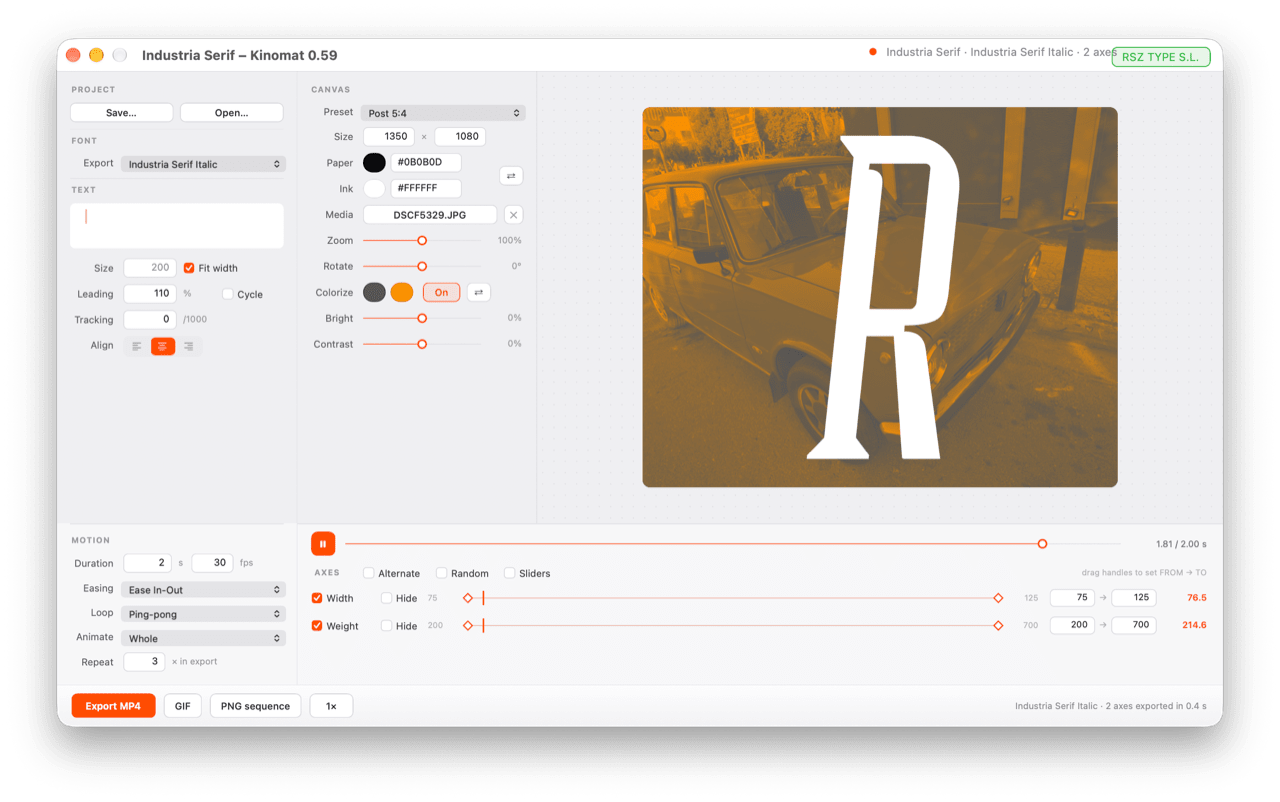
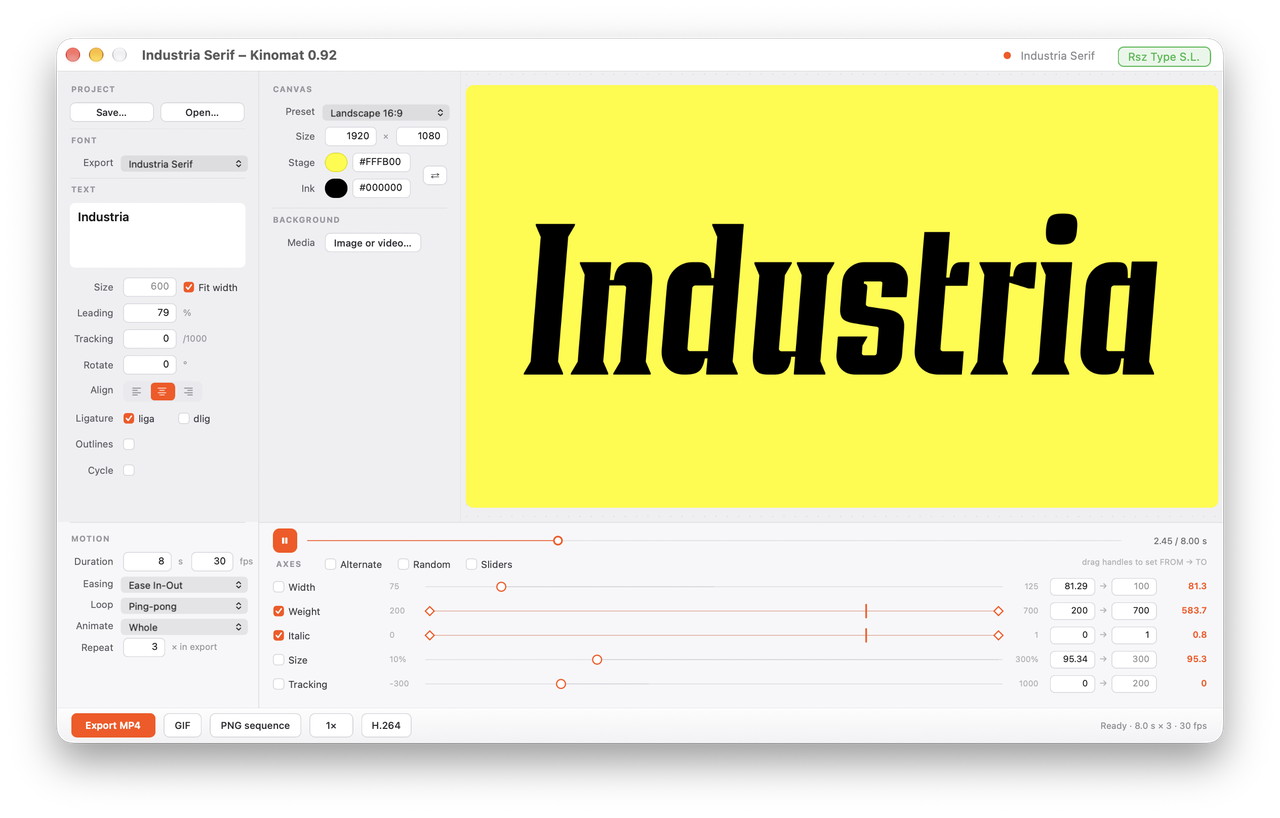
Kinomat 0.92: Cycle in its own row, Outlines, Rotate, narrower panels, shorter bars; Cycle leaves out glyphs that cannot compile; new screenshot

diff --git a/Kinomat/Kinomat.glyphsPlugin/Contents/Resources/plugin.py b/Kinomat/Kinomat.glyphsPlugin/Contents/Resources/plugin.py
@@ -1901,6 +1901,27 @@ def exportFont(font, master=None, needed=None, setting=None):
     if not path:
         path, error = _generate(font, folder, master, None, setting)
 
+    if not path and error:
+        # glyphs whose curves cannot be made compatible TrueType stop the whole
+        # font from going out: leave those out, and say so, rather than show
+        # nothing at all. The error names them, a few at a time.
+        import re
+        left = set()
+        for attempt in range(8):
+            found = re.search(r"not compatible:\s*(.*?)\s*Can.t convert",
+                              error or "", re.S)
+            if not found:
+                break
+            left |= set(n.strip() for n in found.group(1).split(",") if n.strip())
+            names = frozenset(g.name for g in font.glyphs if g.name not in left)
+            clearFolder(folder)
+            path, error = _generate(font, folder, master, names, setting)
+            if path:
+                kept = names
+                print("Kinomat \u2014 left out, they cannot be made compatible "
+                      "TrueType: %s" % ", ".join(sorted(left)))
+                break
+
     if not path:
         if master is not None:
             raise Exception("Font export failed.\n%s"
@@ -1983,7 +2004,7 @@ UI_ACCENT = ACCENT
 # Air has: the export bar fell off the bottom of the screen. The settings are
 # in two columns now, so the panel is as wide as a film and never taller than
 # the screen it opens on.
-COL_W = 296                          # one column of settings
+COL_W = 249                          # one column of settings
 SIDE_W = COL_W * 2                   # the two of them, side by side
 GUTTER = 16                          # a column's own padding
 LABEL_W = 56                         # the right-aligned label column
@@ -1992,18 +2013,19 @@ FIELD_W = COL_W - GUTTER - FIELD_X
 ZONE_PAD = 18                        # left and right of the lanes and the bar
 FIELD_H = 24
 POPUP_H = 22
-LANE_H = 34
-EXPORT_H = 52
+LANE_H = 30
+EXPORT_H = 44
 PROGRESS_W = 340
-SIDE_H = 469                         # the taller column, CANVAS, with its
+SIDE_H = 557                         # the taller column, CANVAS, with its
                                      # margin: the settings never have less
                                      # room than this
-MOTION_H = 199                       # MOTION, in the left column beside the
+MOTION_H = 185                       # MOTION, in the left column beside the
                                      # lanes: the band is never shorter
 WIN_RATIO = 16.0 / 9.0
 WIN_MAX_W = 1440                     # on a large screen it stops growing here
 WIN_MIN_W = SIDE_W + 520             # and the stage is never narrower than this
-CANVAS_MAX_W, CANVAS_MAX_H = 620, 470
+CANVAS_MAX_W, CANVAS_MAX_H = 1400, 1000
+CANVAS_MARGIN = 6                    # air around the picture in the stage
 UI_SCALE = 0.8                       # the whole panel is laid out at full size
                                      # and drawn four fifths of it: it came out
                                      # too large on the screen, and one
@@ -2423,6 +2445,7 @@ class KINOMAT(object):
     widenTimer = None
     switchTimer = None          # the change of variable setting about to run
     openAt = None               # the corner a window built again opens at
+    wholeTried = False          # Cycle's whole-font export was made, whole or not
     stuck = False               # an export for new letters failed: no more
     projectName = None          # the .rsztools file saved or opened last
     backdrop = None             # a Backdrop: the image or video behind the text
@@ -2790,7 +2813,7 @@ class KINOMAT(object):
         stageX = SIDE_W + 1
         # the lanes on the right, the MOTION column on the left: the band is
         # as tall as whichever of the two asks for more
-        laneH = max(MOTION_H, 89 + LANE_H * len(self.axes))
+        laneH = max(MOTION_H, 79 + LANE_H * len(self.axes))
         winW, winH = windowSize(laneH)
         self.winW = winW
         stageW = winW - stageX
@@ -2876,7 +2899,7 @@ class KINOMAT(object):
         y = self.sectionTitle("hdText", GUTTER, self.divider("div0", y + 8),
                               "TEXT")
         # the font's own name, which is what you want to look at first
-        self.w.text = vanilla.TextEditor((GUTTER, y, COL_W - GUTTER * 2, 56),
+        self.w.text = vanilla.TextEditor((GUTTER, y, COL_W - GUTTER * 2, 80),
                                          openingText(self.font),
                                          callback=self.settingsChanged,
                                          checksSpelling=False)
@@ -2902,7 +2925,7 @@ class KINOMAT(object):
         frame.setBorderWidth_(1.0)
         frame.setBorderColor_(LINE_FIELD.CGColor())
         frame.setMasksToBounds_(True)
-        y += 68
+        y += 92
 
         self.rowLabel("lbSize", y, "Size")
         self.field("size", FIELD_X, y, 66, "200")
@@ -2913,8 +2936,6 @@ class KINOMAT(object):
         self.rowLabel("lbLead", y, "Leading")
         self.field("lead", FIELD_X, y, 66, "110")
         self.caption("leadPct", FIELD_X + 72, y + 4, 16, "%", INK_MUTED, 11)
-        self.cycleCheck = self.check("cycleBox", FIELD_X + 122, y, 76,
-                                     "Cycle", False, self.settingsChanged)
         y += FIELD_H + 8
 
         self.rowLabel("lbTrack", y, "Tracking")
@@ -2929,9 +2950,6 @@ class KINOMAT(object):
         self.field("textTurn", FIELD_X, y, 66, "0")
         self.caption("textTurnUnit", FIELD_X + 72, y + 4, 16, "\u00b0",
                      INK_MUTED, 11)
-        self.outlineCheck = self.check("outlineBox", FIELD_X + 122, y, 96,
-                                       "Outlines", False,
-                                       self.settingsChanged)
         y += FIELD_H + 8
 
         # AppKit gives a segmented control the accent set in System Settings
@@ -2973,6 +2991,18 @@ class KINOMAT(object):
                 box.setToolTip_(says)
             except Exception:
                 pass
+        y += FIELD_H + 8
+
+        # the text drawn as outlines only: the name, then the box
+        self.rowLabel("lbOutlines", y, "Outlines")
+        self.outlineCheck = self.check("outlineBox", FIELD_X, y, 24, "", False,
+                                       self.settingsChanged)
+        y += FIELD_H + 8
+
+        # Cycle: every glyph of the font, one after another
+        self.rowLabel("lbCycle", y, "Cycle")
+        self.cycleCheck = self.check("cycleBox", FIELD_X, y, 24, "", False,
+                                     self.settingsChanged)
         y += FIELD_H
 
         # MOTION used to stand here, between TEXT and CANVAS. It is down with
@@ -3010,7 +3040,7 @@ class KINOMAT(object):
             except Exception:
                 pass
             # the well and the value it holds: one to pick with, one to paste into
-            self.field(target + "Hex", FIELD_X + 34, y, 88, colour,
+            self.field(target + "Hex", FIELD_X + 34, y, 72, colour,
                        callback=self.hexEdited, align=NSTextAlignmentLeft)
             y += FIELD_H + 8
 
@@ -3189,19 +3219,19 @@ class KINOMAT(object):
         self.colOff = 0
 
         # ---------------- the stage ------------------------------------------
-        self.previewArea = (stageX + 20, 20, stageW - 40, stageH - 40)
+        self.previewArea = (stageX + 6, 6, stageW - 12, stageH - 12)
         # the picture fills the stage it is given, up to the cap: drawing it
         # larger than that costs more than it shows
-        self.canvasMax = (min(CANVAS_MAX_W, stageW - 60),
-                          min(CANVAS_MAX_H, stageH - 60))
+        self.canvasMax = (min(CANVAS_MAX_W, stageW - CANVAS_MARGIN * 2),
+                          min(CANVAS_MAX_H, stageH - CANVAS_MARGIN * 2))
         self.previewFitted = None
-        self.w.preview = vanilla.ImageView((stageX + 20, 20, stageW - 40,
-                                            stageH - 40), scale="proportional")
+        self.w.preview = vanilla.ImageView((stageX + 6, 6, stageW - 12,
+                                            stageH - 12), scale="proportional")
 
         # ---------------- transport ------------------------------------------
         laneX = COL_W + ZONE_PAD          # MOTION stands to the left of them
         laneR = winW - ZONE_PAD
-        y = laneY + 10
+        y = laneY + 8
         self.pill("play", laneX, y, 30, 30, "", self.togglePlay,
                   fill=ACCENT, colour=NSColor.whiteColor(), radius=8)
         self.showTransport()
@@ -3225,21 +3255,21 @@ class KINOMAT(object):
         self.caption("durUnit", FIELD_X + 66, y + 4, 12, "s", INK_MUTED, 11)
         self.field("fps", FIELD_X + 84, y, 52, "30")
         self.caption("fpsUnit", FIELD_X + 142, y + 4, 24, "fps", INK_MUTED, 11)
-        y += FIELD_H + 8
+        y += FIELD_H + 4
 
         self.rowLabel("lbEase", y - 1, "Easing")
         self.popup("ease", FIELD_X, y, FIELD_W, EASE_NAMES)
         self.w.ease.set(3)
-        y += POPUP_H + 8
+        y += POPUP_H + 4
 
         self.rowLabel("lbLoop", y - 1, "Loop")
         self.popup("mode", FIELD_X, y, FIELD_W, MODES)
-        y += POPUP_H + 8
+        y += POPUP_H + 4
 
         self.rowLabel("lbUnit", y - 1, "Animate")
         self.popup("unit", FIELD_X, y, FIELD_W, UNITS,
                    callback=self.pickUnit)
-        y += POPUP_H + 8
+        y += POPUP_H + 4
 
         self.rowLabel("lbRepeat", y, "Repeat")
         self.field("loops", FIELD_X, y, 52, "3")
@@ -3249,11 +3279,11 @@ class KINOMAT(object):
         # ---------------- one lane per axis -----------------------------------
         # a static font has no axes: the title names what the lanes move
         # instead, and the hint says why
-        self.sectionTitle("hdAxes", laneX + 2, laneY + 54,
+        self.sectionTitle("hdAxes", laneX + 2, laneY + 45,
                           "SIZE · TRACKING" if self.static else "AXES", 160)
         trouble = bool(getattr(self, "noVariableExport", False) or
                        (self.static and getattr(self, "variableTrouble", None)))
-        self.caption("axesHint", laneR - 460, laneY + 52, 460, self.axesHintText(),
+        self.caption("axesHint", laneR - 460, laneY + 43, 460, self.axesHintText(),
                      ACCENT_TEXT if trouble else INK_FAINT, 12 if trouble else 10,
                      align=NSTextAlignmentRight, height=16,
                      weight=NSFontWeightBold if trouble else None)
@@ -3263,11 +3293,11 @@ class KINOMAT(object):
         # are different ideas, so ticking one lets the other go
         heading = "SIZE \u00b7 TRACKING" if self.static else "AXES"
         boxX = laneX + 2 + int(textWidth(heading, uiFont(10, NSFontWeightBold))) + 34
-        self.alternateCheck = self.check("alternateBox", boxX, laneY + 49, 84,
+        self.alternateCheck = self.check("alternateBox", boxX, laneY + 40, 84,
                                          "Alternate", False, self.toggleAlternate)
-        self.randomCheck = self.check("randomBox", boxX + 90, laneY + 49, 78,
+        self.randomCheck = self.check("randomBox", boxX + 90, laneY + 40, 78,
                                       "Random", False, self.toggleRandom)
-        self.sliderCheck = self.check("sliderBox", boxX + 174, laneY + 49, 74,
+        self.sliderCheck = self.check("sliderBox", boxX + 174, laneY + 40, 74,
                                       "Sliders", False, self.settingsChanged)
 
         liveX = laneR - 52
@@ -3282,7 +3312,7 @@ class KINOMAT(object):
         trackX = minX + 46
         trackW = maxX - 12 - trackX
 
-        y = laneY + 75
+        y = laneY + 65
         for i, ax in enumerate(self.axes):
             self.axisChecks.append(
                 self.check("axCheck%d" % i, laneX, y, 78, ax["name"],
@@ -3294,9 +3324,9 @@ class KINOMAT(object):
                            lambda sender, k=i: self.toggleHide(k),
                            height=LANE_H))
             unit = ax.get("unit", "")
-            self.caption("axMin%d" % i, minX, y + 10, 34,
+            self.caption("axMin%d" % i, minX, y + 8, 34,
                          "%g%s" % (ax["min"], unit), INK_FAINT, 10)
-            group = vanilla.Group((trackX, y + 3, trackW, 28))
+            group = vanilla.Group((trackX, y + 1, trackW, 28))
             setattr(self.w, "axGroup%d" % i, group)
             slider = RangeSlider.alloc().initWithFrame_(((0, 0), (trackW, 28)))
             slider.mn, slider.mx = ax["min"], ax["max"]
@@ -3306,21 +3336,21 @@ class KINOMAT(object):
             slider.setAutoresizingMask_(NSViewWidthSizable | NSViewHeightSizable)
             group.getNSView().addSubview_(slider)
             self.sliders.append(slider)
-            self.caption("axMax%d" % i, maxX, y + 10, 34,
+            self.caption("axMax%d" % i, maxX, y + 8, 34,
                          "%g%s" % (ax["max"], unit),
                          INK_FAINT, 10, align=NSTextAlignmentRight)
-            self.field("axFrom%d" % i, fromX, y + 6, 56,
+            self.field("axFrom%d" % i, fromX, y + 4, 56,
                        "%g" % ax.get("from", ax["min"]), size=11, height=22)
-            self.caption("axArrow%d" % i, arrowX - 2, y + 9, 14, "→",
+            self.caption("axArrow%d" % i, arrowX - 2, y + 7, 14, "→",
                          INK_FAINT, 11)
-            self.field("axTo%d" % i, toX, y + 6, 56,
+            self.field("axTo%d" % i, toX, y + 4, 56,
                        "%g" % ax.get("to", ax["max"]), size=11, height=22)
-            self.caption("axNow%d" % i, liveX, y + 9, 52, "", ACCENT, 11,
+            self.caption("axNow%d" % i, liveX, y + 7, 52, "", ACCENT, 11,
                          align=NSTextAlignmentRight, weight=NSFontWeightSemibold)
             y += LANE_H
 
         # ---------------- export, last ----------------------------------------
-        y = exportY + 11
+        y = exportY + 7
         x = ZONE_PAD                      # the bar is the panel's, not a lane's
         width = int(textWidth("Export MP4", uiFont(12, NSFontWeightSemibold))) + 36
         self.pill("mp4", x, y, width, 30, "Export MP4", self.exportMP4,
@@ -3362,11 +3392,11 @@ class KINOMAT(object):
             "and nowhere else.")
         self.paintCodec()
 
-        self.caption("status", laneR - 340, exportY + 19, 340, "",
+        self.caption("status", laneR - 340, exportY + 15, 340, "",
                      INK_STATUS, 11, align=NSTextAlignmentRight, height=14)
-        self.zone("progressTrack", (laneR - PROGRESS_W, exportY + 37,
+        self.zone("progressTrack", (laneR - PROGRESS_W, exportY + 33,
                                     PROGRESS_W, 3), LINE_FIELD)
-        self.zone("progressFill", (laneR - PROGRESS_W, exportY + 37, 0, 3),
+        self.zone("progressFill", (laneR - PROGRESS_W, exportY + 33, 0, 3),
                   ACCENT)
         for name in ("progressTrack", "progressFill"):
             view = getattr(self.w, name).getNSView()
@@ -4380,6 +4410,8 @@ class KINOMAT(object):
             return
         if self.kept is None or self.stuck:
             return
+        if self.cycleCheck.on and self.wholeTried:
+            return
         letters, needed = self.letters, None
         if not self.cycleCheck.on:
             letters = self.letters | frozenset(
@@ -4409,8 +4441,13 @@ class KINOMAT(object):
             self.letters = letters
         self.settingsChanged()
         spent = time.time() - started
+        self.wholeTried = needed is None
         if kept is None:
             self.w.status.set("Whole font exported in %.1f s" % spent)
+        elif needed is None:
+            self.w.status.set("Font exported without %d glyphs that will not "
+                              "compile \u00b7 see the Macro panel"
+                              % (len(self.font.glyphs) - len(kept)))
         else:
             self.w.status.set("New letters exported in %.1f s \u00b7 %d of %d glyphs"
                               % (spent, len(kept), needed[2]))
@@ -5357,6 +5394,7 @@ class KINOMAT(object):
         self.staticOf = None
         self.charset = None
         self.stuck = False
+        self.wholeTried = False
         self.absent = frozenset()
         self.vfName = settingName(self.font, wanted)
         missing = None

diff --git a/Kinomat/version_badge.py b/Kinomat/version_badge.py
@@ -30,28 +30,6 @@ image = Image.open(SOURCE).convert("RGBA")   # the shadow round the window is tr
 w, h = image.size
 draw = ImageDraw.Draw(image)
 
-# the window's own title still names the version the picture was taken with:
-# it is written again, in the system font, sized to cover the old one exactly
-OLD_TITLE, TITLE_BOX = "Industria Serif \u2013 Kinomat 0.59", (143, 50, 336, 59)
-try:
-    def systemFont(px):
-        try:
-            f = ImageFont.truetype("/System/Library/Fonts/SFNS.ttf", px)
-        except OSError:
-            return ImageFont.truetype(TITLE_FONT, px)
-        try: f.set_variation_by_name("Semibold")
-        except Exception: pass
-        return f
-    want = TITLE_BOX[2] - TITLE_BOX[0]
-    px = min(range(8, 30), key=lambda n: abs(draw.textlength(OLD_TITLE, font=systemFont(n)) - want))
-    tf = systemFont(px)
-    draw.rectangle((TITLE_BOX[0] - 3, TITLE_BOX[1] - 6, TITLE_BOX[2] + 12, TITLE_BOX[3] + 6), fill=(255, 255, 255, 255))
-    capTop = draw.textbbox((0, 0), "I", font=tf)[1]
-    draw.text((TITLE_BOX[0], TITLE_BOX[1] - capTop), "Industria Serif \u2013 Kinomat " + version,
-              font=tf, fill=(77, 77, 79, 255))
-except OSError:
-    pass
-
 # the badge sits on the top right corner of the window, big enough to be
 # read in the Plugin Manager's small preview
 size = round(w * 0.03)
@@ -67,7 +45,7 @@ box = draw.textbbox((0, 0), label, font=font)
 tw, th = box[2] - box[0], box[3] - box[1]
 padX, padY = round(size * 0.6), round(size * 0.4)
 bw, bh = tw + 2 * padX, th + 2 * padY
-CORNER = (1222, 40)                 # the window's top right corner in the screenshot
+CORNER = (1223, 39)                 # the window's top right corner in the screenshot
 x0 = min(w - 4 - bw, CORNER[0] - bw // 2)
 y0 = max(4, CORNER[1] - bh // 2)
 x1, y1 = x0 + bw, y0 + bh

diff --git a/Kinomat/README.md b/Kinomat/README.md
@@ -1,6 +1,6 @@
 # 🎥 Kinomat
 
-**Version 0.78** — for Glyphs 3 and 4, macOS 10.15 or later.
+**Version 0.92** — for Glyphs 3 and 4, macOS 10.15 or later.
 
 By Giuseppe Salerno co-founder of [Resistenza Type](https://rsztype.com).
 
@@ -41,10 +41,12 @@ A document with axes films its **variable font export** from *Font Info ▸ Expo
 | the box | what is filmed, one line per line. It opens on the font's own name |
 | `Size` | in points, on the canvas — with **Fit width** it is set for you, as wide as the canvas allows |
 | `Leading` | the distance between lines, as a percentage |
-| `Cycle` | instead of the word, the font's glyphs one after another, components included |
 | `Tracking` | letter-spacing, per thousand of the em, on top of the font's own kerning |
+| `Rotate` | turns the text, in degrees, around the middle of the canvas |
 | `Align` | left, centre, right |
 | `Ligatures` | **liga** standard ones, clig with them · **dlig** the discretionary ones. Measured as they are drawn |
+| `Outlines` | the letters drawn as outlines only, in the Ink colour |
+| `Cycle` | instead of the word, the font's glyphs one after another, components included. Glyphs whose curves cannot be made compatible between masters are left out, and the panel says how many |
 
 **CANVAS**
 
@@ -78,7 +80,7 @@ A document with axes films its **variable font export** from *Font Info ▸ Expo
 
 | | |
 |---|---|
-| the tick beside the name | this axis moves. Unticked, it stands still on its **from** |
+| the tick beside the name | this axis moves. Unticked, the two diamonds become one dot: drag it to choose the value the axis stands at |
 | `from → to` | where the axis starts and ends. The diamonds on the track do the same by hand |
 | the number in orange | where the axis is, right now, in the frame on the stage |
 | `Alternate` | the lanes one after another, each adding to the ones before |

diff --git a/README.md b/README.md
@@ -6,7 +6,7 @@ https://resistenza.es/glyphs/
 
 ## Contents
 
-- [**🎥 Kinomat**](Kinomat/) `v0.83` — turns your variable font into a short animation: type a word, choose which axes move, export MP4, GIF or a PNG sequence. Exporting needs a Pro key. **[Manual →](https://resistenza.es/glyphs/kinomat.html)**
+- [**🎥 Kinomat**](Kinomat/) `v0.92` — turns your variable font into a short animation: type a word, choose which axes move, export MP4, GIF or a PNG sequence. Exporting needs a Pro key. **[Manual →](https://resistenza.es/glyphs/kinomat.html)**
 
 - [**🔢 Numeratore**](https://github.com/rsztype/Numeratore) `v2.04` — adds an Increase Vers. switch to the inspector that increments a font's version by `0.001` and saves on every export. Living in its own repository.
 
